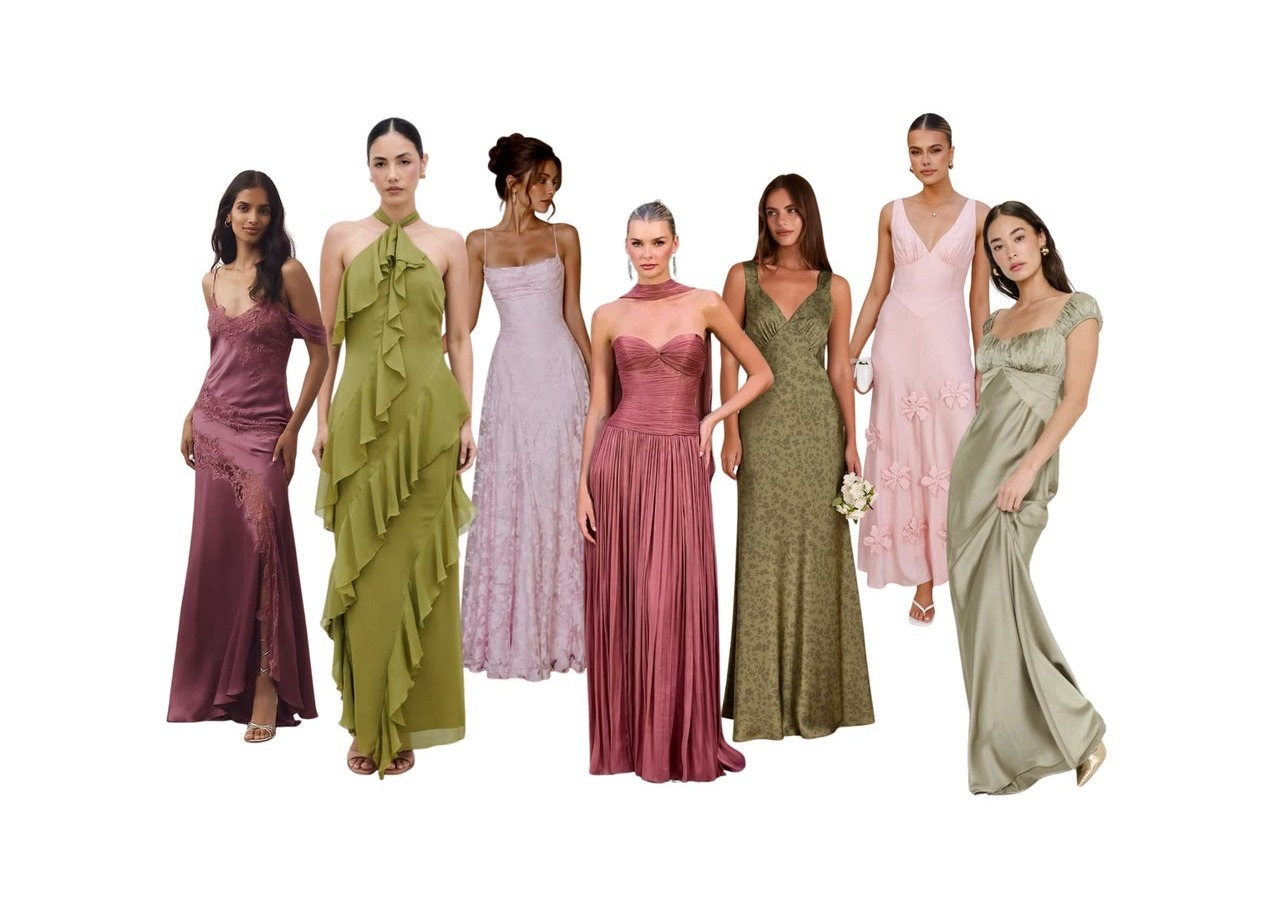
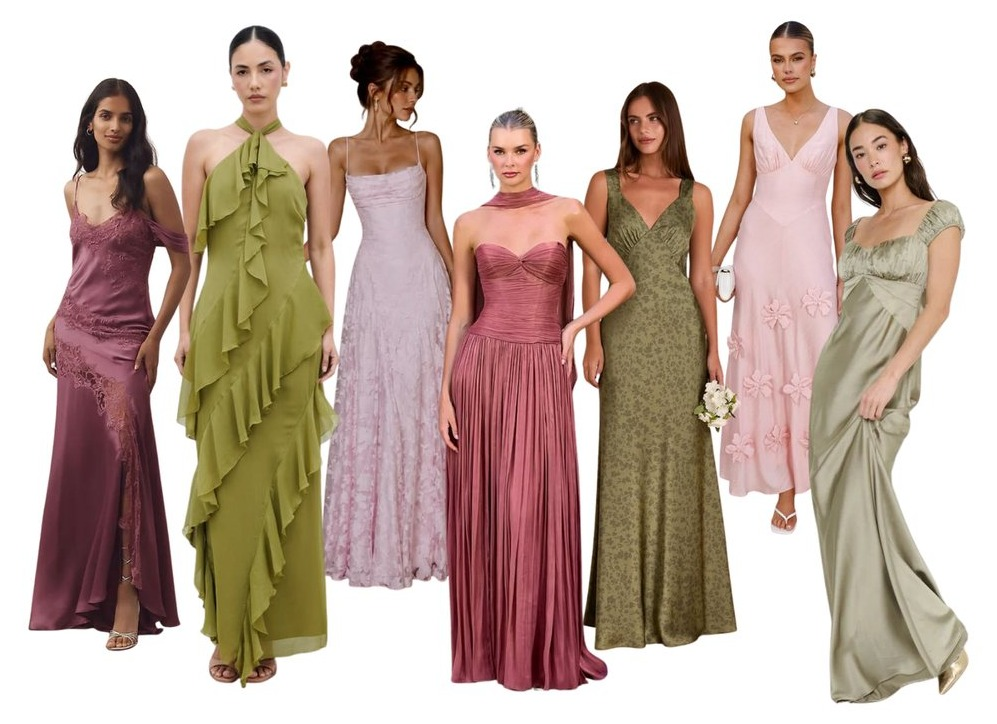
Add files via upload

diff --git a/index.html b/index.html
@@ -428,8 +428,10 @@
   /* The board was inset at 70% of the card. Filling the width and trimming
      the frame to a hairline puts roughly half as much picture again on screen,
      which is what the enlarge tap was previously there to provide. */
-  .look-back{transform:none; padding:5px 5px 6px; display:flex; flex-direction:column; justify-content:center;}
-  .look-back img{width:100%; height:auto; display:block; flex:0 0 auto; object-fit:contain; border-radius:2px;}
+  /* Nothing on this face but the board, so it fills the leaf edge to edge and
+     centres in whatever height the front face sets. */
+  .look-back{transform:none; padding:4px; display:flex; align-items:center; justify-content:center;}
+  .look-back img{width:100%; height:auto; display:block; object-fit:contain; border-radius:2px;}
   .look-back .cap{
     display:flex; justify-content:space-between; align-items:baseline;
     padding-top:10px; border-top:1px solid var(--champagne); margin-top:8px;
@@ -477,7 +479,7 @@
     .look-front .pal-chip{height:42px; margin-bottom:6px;}
     .look-front .pal-row{margin-bottom:18px; padding-bottom:16px; gap:5px;}
     .look-front .pal-name{font-size:7.5px; letter-spacing:.2px;}   /* let the copy set the height */
-    .look-back{padding:4px 4px 5px;}
+    .look-back{padding:3px;}
   }
   @media(prefers-reduced-motion:reduce){
     /* swap the flip for a cross-fade — rotation is the vestibular part */
@@ -507,6 +509,8 @@
   .rsvp .section-title{color:#fff;}
   .rsvp .eyebrow{color:var(--champagne);}
   .rsvp .section-sub{color:rgba(255,255,255,.88);}
+  /* the deadline is the one thing in that sentence a guest must retain */
+  .rsvp .section-sub strong{color:#fff; font-weight:400; letter-spacing:.2px;}
   .rsvp .divider{background:linear-gradient(to right, transparent, var(--champagne), transparent);}
   .rsvp .divider::after{background:var(--champagne); box-shadow:0 0 0 5px rgba(26,28,16,.8);}
   /* ===== RSVP guest code gate ===== */
@@ -1565,6 +1569,21 @@
   }
 
 
+  /* ---- the outfit boards, as large as the screen allows ----
+     Asked for half again. On a laptop the cards have the room and it lands.
+     On a phone the card already spans the container, so the extra comes from
+     letting it run to both edges and from cropping the last of the white out
+     of the photographs themselves; past that the screen is the limit. */
+  @media(max-width:820px){
+    .look-grid{
+      width:100vw; margin-left:calc(50% - 50vw);
+      gap:14px;
+    }
+    .look-card{border-radius:0;}
+    .look-front{padding:24px clamp(18px,5vw,26px);}
+    .look-back{padding:2px;}
+  }
+
   /* ══════════════════════════════════════════════════════════════════════
      SECTION SPACING ON A PHONE
      Desktop padding worn on a small screen makes every section feel like it
@@ -2020,7 +2039,7 @@
       <div class="tl-item">
         <div class="tl-spacer"></div>
         <div class="tl-dot"><svg viewBox="0 0 40 40"><circle cx="20" cy="20" r="8.6"/><circle cx="20" cy="20" r="5.2"/><path d="M6.4 7.5 v6.2 a2.6 2.6 0 0 0 2.6 2.6 a2.6 2.6 0 0 0 2.6 -2.6 V7.5"/><path d="M9 16.3 V32.5"/><path d="M32.6 7.5 c-2.2 1.6 -2.8 4 -2.8 6.3 c0 1.6 .8 2.6 2.2 2.8"/><path d="M32.6 16.6 V32.5"/></svg></div>
-        <div class="tl-card"><span class="tl-time">6:30 PM</span><h4>Reception &amp; Dinner</h4><p>Dinner is served beneath<br>the evening sky.</p></div>
+        <div class="tl-card"><span class="tl-time">6:30 PM</span><h4>Reception &amp; Dinner</h4><p>Dinner is served beneath the evening sky.</p></div>
       </div>
       <div class="tl-item">
         <div class="tl-card"><span class="tl-time">9:00 PM</span><h4>Dancing &amp; Celebration</h4><p>The mobile bar opens and<br>the dance floor comes alive.</p></div>
@@ -2140,7 +2159,7 @@
         </g>
       </svg>
     </div>
-    <p class="tl-note">Exact timing may shift slightly on the day. We will keep the program cards updated closer to the date.</p>
+    <p class="tl-note">Exact timing may shift slightly on the day.<br>We will keep the program cards updated closer to the date.</p>
   </div>
 </section>
 
@@ -2225,11 +2244,11 @@
             <div class="look-kicker">Formal &middot; sage &amp; taupes</div>
             <h3>Gentlemen</h3>
             <p>Light and muted shades are what we love most. Think of the softer sages, sands and taupes shown here. Wear yours as a formal suit, or as a long sleeve shirt with trousers. Both look right on the day.</p>
-            <div class="look-cue">Tap to turn the page &rarr;</div>
+            <div class="look-cue">Tap to view sample looks &rarr;</div>
           </div>
           <div class="look-face look-back">
             <img src="images/attire-men.jpg" alt="Six sample menswear looks in sage, olive, cream and taupe linen">
-            <div class="cap"><b>Sample looks for men</b><i>Tap to turn back</i></div>
+            
           </div>
         </div>
       </button>
@@ -2248,11 +2267,11 @@
             <div class="look-kicker">Floor length &middot; sage &amp; mauves</div>
             <h3>Ladies</h3>
             <p>Light and muted shades are preferred. Soft roses, dusty mauves and pale sages rather than anything deep or bright. Floor length, and the silhouette is entirely yours.</p>
-            <div class="look-cue">Tap to turn the page &rarr;</div>
+            <div class="look-cue">Tap to view sample looks &rarr;</div>
           </div>
           <div class="look-face look-back">
             <img src="images/attire-women.jpg" alt="Seven sample floor length gowns in mauve, rose, olive and sage">
-            <div class="cap"><b>Sample looks for women</b><i>Tap to turn back</i></div>
+            
           </div>
         </div>
       </button>
@@ -2277,9 +2296,9 @@
     <div class="eyebrow">Kindly Reply</div>
     <h2 class="section-title">RSVP</h2>
     <div class="divider"></div>
-    <p class="section-sub">Please let us know if you'll be joining us by filling out the form below.</p>
+    <p class="section-sub">Please fill out the form below by <strong>October 15, 2026</strong><br>to let us know if you'll be joining us.</p>
     <div class="rsvp-gate" id="rsvpGate">
-      <p class="gate-lead">Your invitation carries a guest code. Enter it below to open your RSVP.</p>
+      <p class="gate-lead">Your invitation carries a guest code.<br>Enter it below to open your RSVP.</p>
       <form id="gateForm" novalidate>
         <div class="field">
           <label for="guestcode">Guest Code</label>
@@ -2490,7 +2509,7 @@
     <div class="eyebrow">Good to Know</div>
     <h2 class="section-title">Frequently Asked Questions</h2>
     <div class="faq-list">
-      <div class="faq-item open">
+      <div class="faq-item">
         <div class="faq-q"><span>What should I wear?</span><span class="plus">+</span></div>
         <div class="faq-a"><p>Formal, in light and muted shades. Ladies in floor length dresses in soft roses, dusty mauves and pale sages. Gentlemen in sages, sands and taupes, as a suit or a long sleeve shirt with trousers. Please avoid champagne, which is reserved for the bride.</p><a class="faq-link" href="#attire">See the full dress code <span class="arw" aria-hidden="true">&rarr;</span></a></div>
       </div>
@@ -3580,19 +3599,58 @@
       document.documentElement.style.setProperty('--beat', BEAT_MS + 'ms');
     }
     var last = 0, rafId = null, halted = false, paused = false;
+
+    /* ---- swipe settles on a photograph ----
+       A free drag leaves the reel wherever the finger stopped, half a picture
+       either side of centre. Releasing now eases to the nearest photograph, or
+       to the next one along if the swipe was decisive: past a third of a tile,
+       or quick enough to read as a flick. The easing is exponential rather
+       than a fixed duration, so a short settle is not slower than a long one. */
+    var snapTo = null;
+
+    function tileAt(centre){
+      var best = 0, bestD = Infinity;
+      for(var k = 0; k < mids.length; k++){
+        var d = Math.abs(mids[k] - centre);
+        if(d < bestD){ bestD = d; best = k; }
+      }
+      return best;
+    }
+
+    function settle(dir){
+      if(!mids.length || !loopW) return;
+      var vw = carEl.clientWidth || trackEl.clientWidth;
+      var k  = tileAt(pos + vw / 2);
+      if(dir) k = Math.min(mids.length - 1, Math.max(0, k + dir));
+      snapTo = mids[k] - vw / 2;
+    }
     var reduce = window.matchMedia && window.matchMedia('(prefers-reduced-motion: reduce)').matches;
 
+    /* Returns the shift it applied, so anything holding a position in the same
+       space (the swipe target) can be moved by the same amount. */
     function wrap(){
-      if(loopW <= 0) return;
-      if(pos >= loopW * 1.5)      pos -= loopW;
-      else if(pos < loopW * 0.5)  pos += loopW;
+      if(loopW <= 0) return 0;
+      if(pos >= loopW * 1.5){      pos -= loopW; return -loopW; }
+      if(pos < loopW * 0.5){       pos += loopW; return  loopW; }
+      return 0;
     }
 
     function frame(ts){
       if(!last) last = ts;
       var dt = Math.min(64, ts - last);        // clamp after a background tab
       last = ts;
-      if(!halted && !paused && !dragging && !reduce){
+      if(snapTo !== null && !dragging){
+        var gap = snapTo - pos;
+        if(Math.abs(gap) < 0.6){
+          pos = snapTo; snapTo = null;
+        } else {
+          // frame-rate independent easing: same feel at 60Hz and 120Hz
+          pos += gap * (1 - Math.pow(0.0022, dt / 1000));
+        }
+        snapTo !== null ? (snapTo += wrap()) : wrap();
+        applyPos();
+        checkScrollHonoured();
+      } else if(!halted && !paused && !dragging && !reduce){
         pos += dt * PX_PER_MS;               // accumulate in full precision
         wrap();
         applyPos();
@@ -3627,6 +3685,7 @@
       if(!mids.length) measure();
       // hard set: no smooth-scroll easing, so the chapter appears at once
       trackEl.style.scrollBehavior = 'auto';
+      snapTo = null;
       pos = mids[t] - (carEl.clientWidth || trackEl.clientWidth) / 2;
       wrap();
       applyPos();
@@ -3646,24 +3705,38 @@
       if(e.button && e.button !== 0) return;      // left button / touch only
       dragging = true; moved = 0; dragId = e.pointerId;
       dragX = e.clientX; dragStart = pos;
+      snapTo = null;                                // a new gesture wins
+      dragT0 = (e.timeStamp || Date.now()); dragDX = 0;
       trackEl.classList.add('dragging');
     });
 
     function onDragMove(e){
       if(!dragging || (dragId !== null && e.pointerId !== dragId)) return;
       var dx = e.clientX - dragX;
+      dragDX = dx;
       moved = Math.max(moved, Math.abs(dx));
       if(moved > 4 && e.cancelable) e.preventDefault();
       pos = dragStart - dx;
       wrap();
       applyPos();
     }
-    function endDrag(){
+    function endDrag(e){
       if(!dragging) return;
       dragging = false; dragId = null;
       trackEl.classList.remove('dragging');
+
+      var pitch = (mids.length > 1) ? (mids[1] - mids[0]) : 300;
+      var ms    = Math.max(1, ((e && e.timeStamp) || Date.now()) - dragT0);
+      var speed = Math.abs(dragDX) / ms;            // px per ms
+      var far   = Math.abs(dragDX) > pitch * 0.33;
+      var flick = speed > 0.45 && Math.abs(dragDX) > 14;
+
+      if(moved > 4 && (far || flick)) settle(dragDX < 0 ? 1 : -1);
+      else if(moved > 4)              settle(0);
+
       nudge();
     }
+    var dragT0 = 0, dragDX = 0;
     window.addEventListener('pointermove', onDragMove, {passive:false});
     window.addEventListener('pointerup', endDrag);
     window.addEventListener('pointercancel', endDrag);
